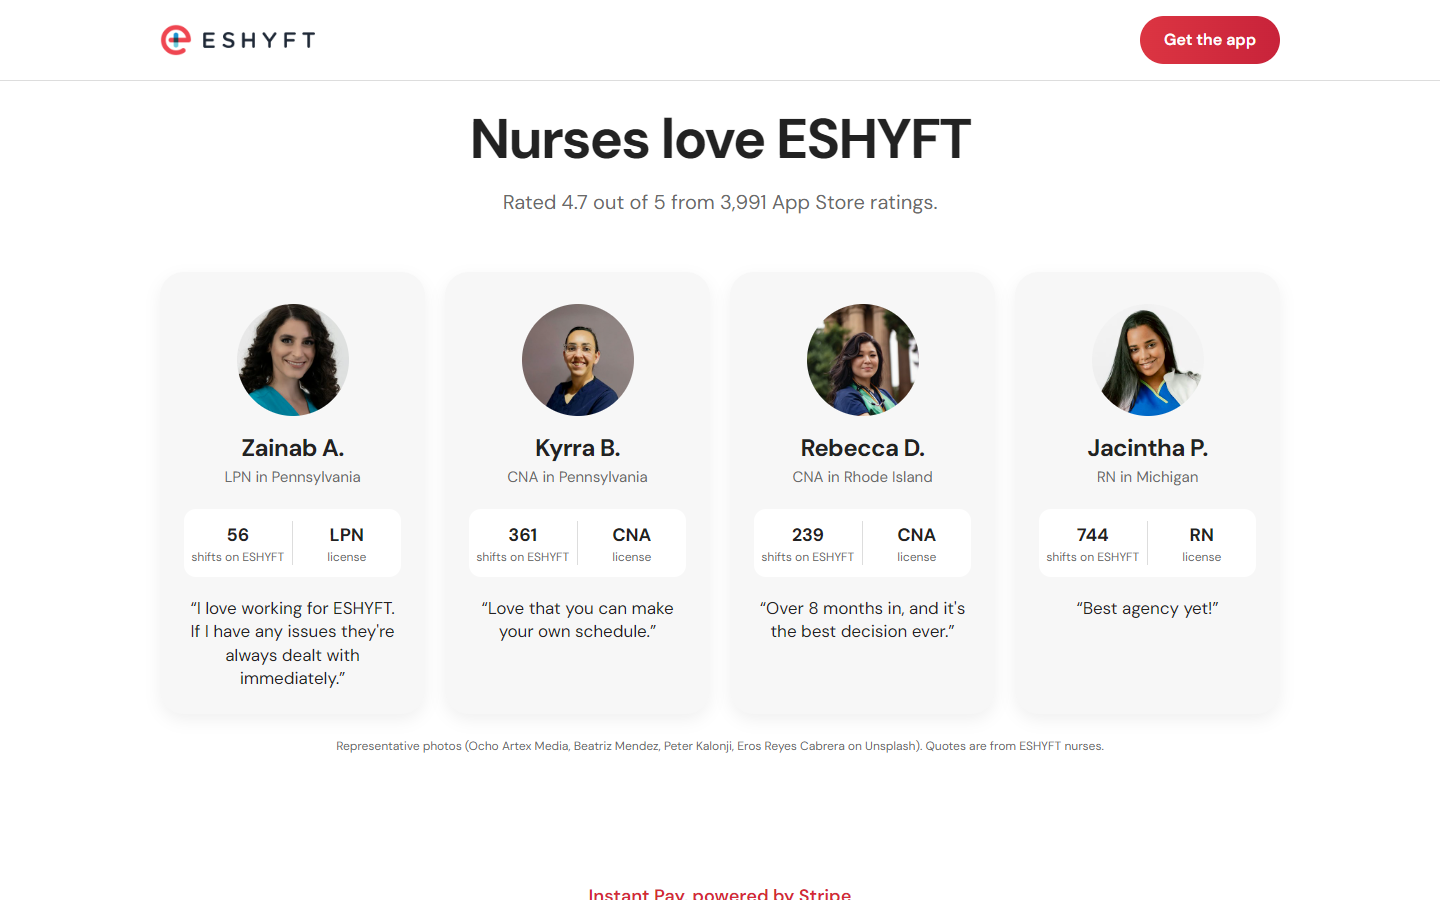
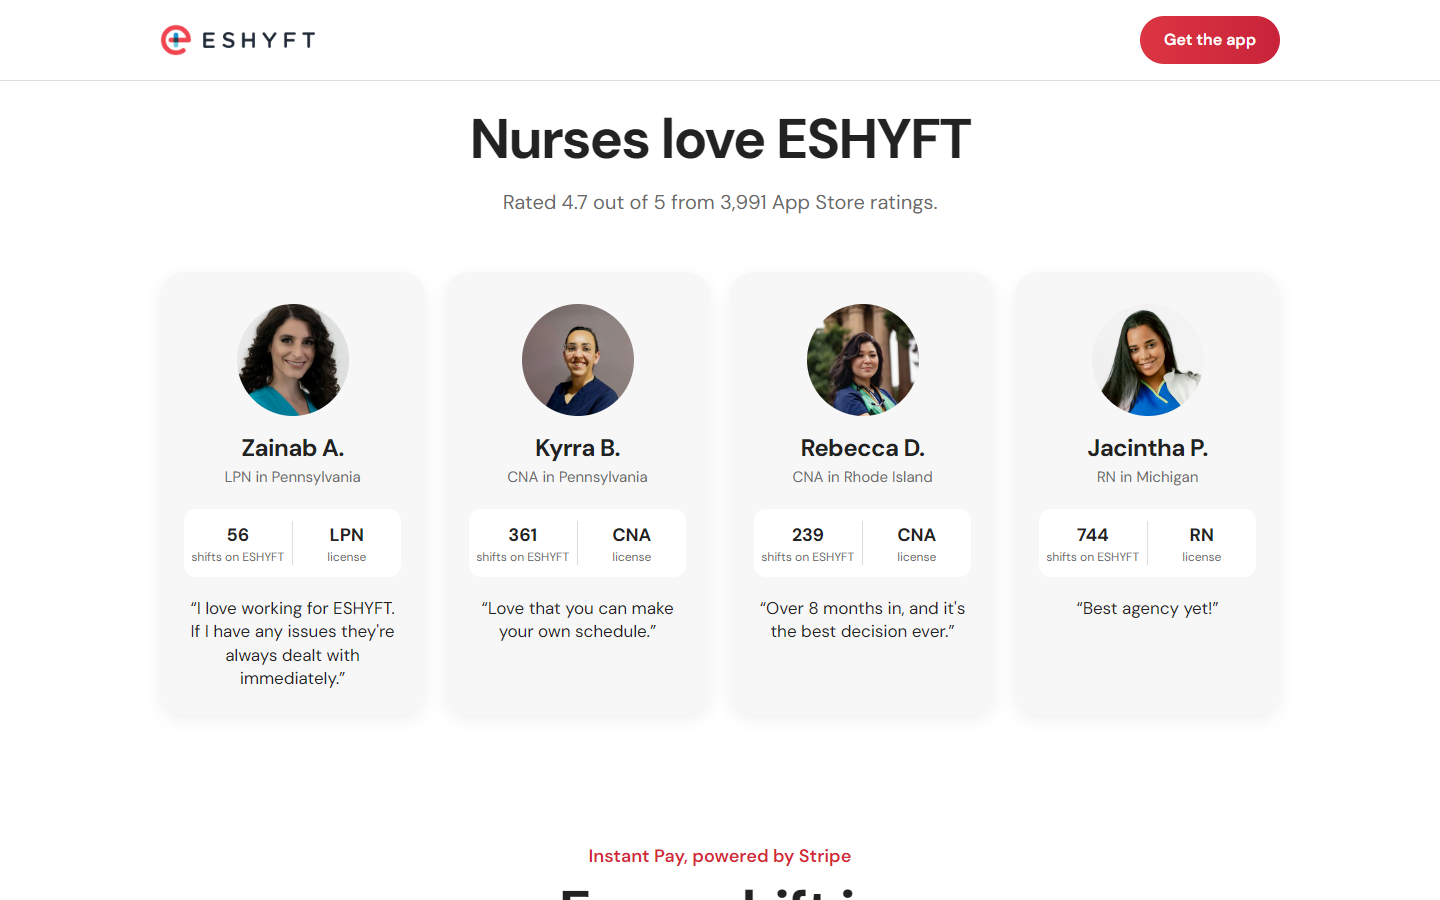
Remove photo-credit and data-source notes from the page

Changed region(s): [[0.375, 0.9333, 0.5938, 1.0], [0.25, 0.8089, 0.75, 0.84]]

diff --git a/src/components/Footer.tsx b/src/components/Footer.tsx
@@ -1,6 +1,5 @@
 import type { ReactNode } from 'react'
 import { links } from '../data/content'
-import { meta } from '../lib/estimate'
 
 export function Footer() {
   return (
@@ -25,10 +24,6 @@ export function Footer() {
         </div>
         <div className="space-y-2 border-t border-hairline py-6 text-sm text-ink-2">
           <p>Concept redesign of eshyft.com/nurses by Joseph Fan. Not an official ESHYFT page.</p>
-          <p>
-            Wages: {meta.wages.source}, {meta.wages.reference}. Nursing homes: {meta.nursingHomes.source} (
-            {meta.nursingHomes.processingDate}); not all are ESHYFT partners. Map data © OpenStreetMap contributors.
-          </p>
         </div>
       </div>
     </footer>

diff --git a/src/sections/Testimonials.tsx b/src/sections/Testimonials.tsx
@@ -48,9 +48,6 @@ export function Testimonials() {
           </figure>
         ))}
       </div>
-      <p className="mt-6 text-center text-xs text-ink-2">
-        Representative photos ({testimonials.map((t) => t.photoBy).join(', ')} on Unsplash). Quotes are from ESHYFT nurses.
-      </p>
     </section>
   )
 }

diff --git a/docs/CASE_STUDY.md b/docs/CASE_STUDY.md
@@ -102,7 +102,7 @@ ESHYFT already gestures at this idea. The current hero image contains a small ca
 | **Map** | Nearby listings with prices | Nearby nursing homes with distance pins; tap for a per-shift estimate | Answers "is there work near me?" (§7) |
 | **Support banner** | "Curious about hosting? Let's talk" | "New to per diem? Get answers from ESHYFT's support team, 24/7." | First-time per diem nurses have the most questions. This uses the page's real 24/7 support claim. |
 | **Three reasons** | Easy / Worth it / Protected | Flexible / Pays fast / Supported | Distilled from the four blocks on the current page (support, quick & easy, in control, instant pay). |
-| **Testimonials** | Co-host cards (photo, name, stat box) | Four real quotes from the current page. Each card has a profile picture, license and state, and a stat box with the nurse's **shifts worked on ESHYFT** (56, 361, 239, 744), under the verified App Store rating | Peer proof; a nurse looks for someone like them, and a shift count shows these are experienced, repeat users. Profile pictures are representative stock photos (Unsplash, free license), labelled as such under the cards, since the quotes come from real, named nurses; real photos (with consent) drop into `public/nurses/`. |
+| **Testimonials** | Co-host cards (photo, name, stat box) | Four real quotes from the current page. Each card has a profile picture, license and state, and a stat box with the nurse's **shifts worked on ESHYFT** (56, 361, 239, 744), under the verified App Store rating | Peer proof; a nurse looks for someone like them, and a shift count shows these are experienced, repeat users. Profile pictures are representative stock photos (Unsplash, free license), not the nurses quoted; real photos (with consent) drop into `public/nurses/`. |
 | **Backed by ESHYFT** | AirCover checklist | Instant Pay (Stripe), 24/7 support, Joint Commission certification, 30 states | Removes the fear of the unknown, with no claim the current site doesn't already make. |
 | **App showcase** | Phones on gray cards | "Find shifts near you" + "Cash out when you want" | Shows the product. The Instant Pay screen reuses ESHYFT's real marketing numbers ($2,346.77 balance, $450 cash-out) and its blue "Cash out" button. |
 | **Coverage** | — | The 30 states, sorted, in columns | Keeps the useful part of the old location list and drops the 30 identical links. |
